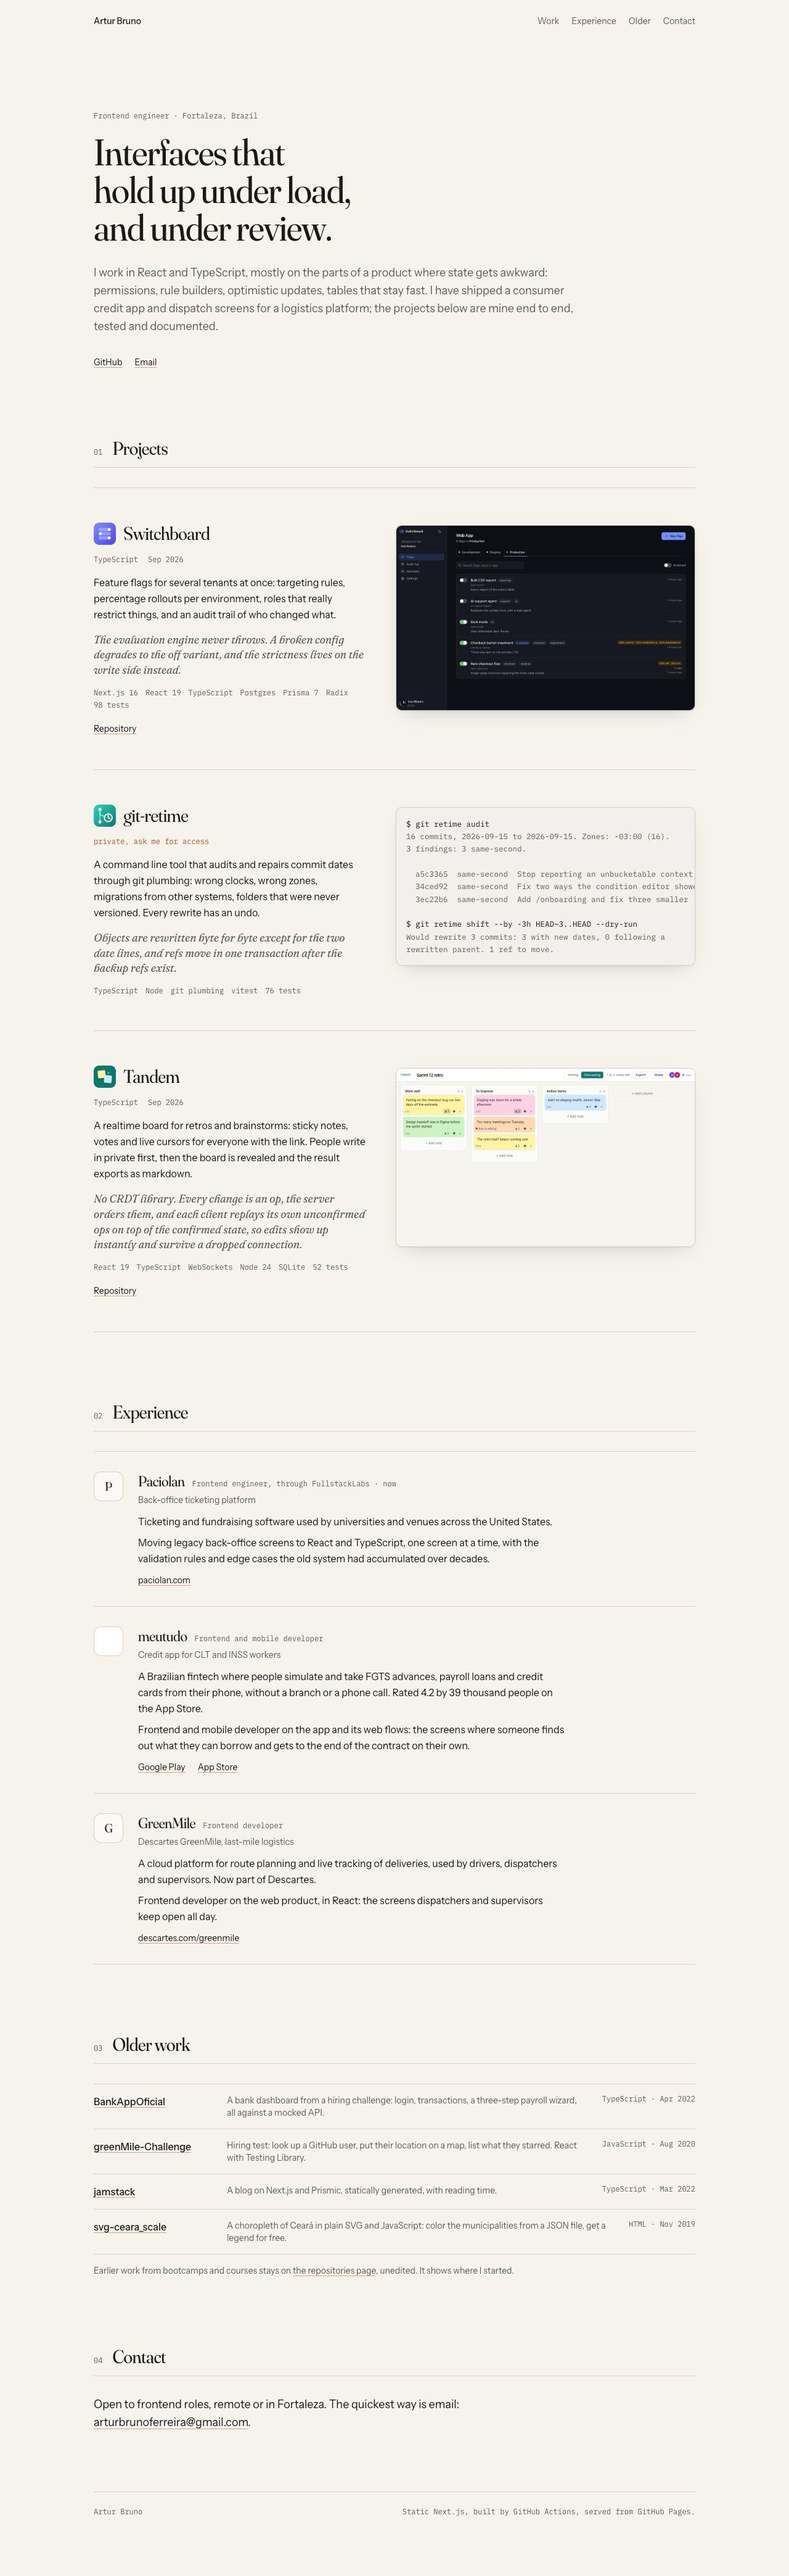
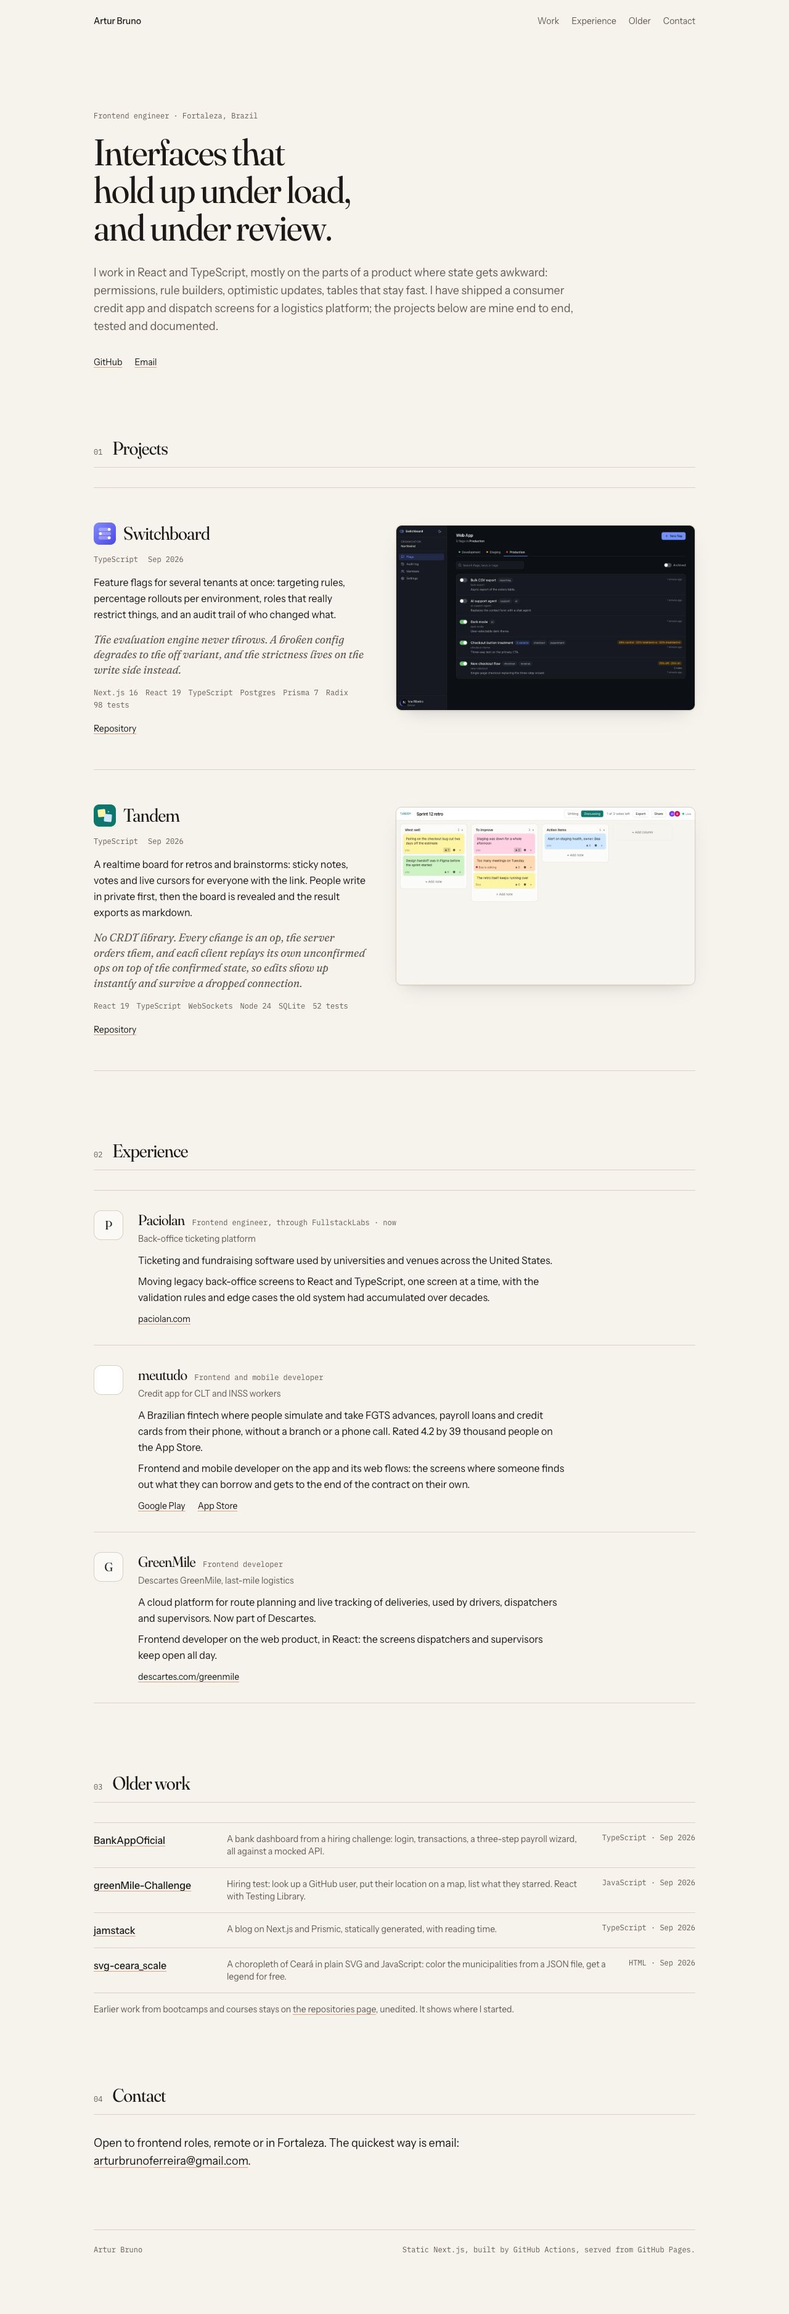
Update featured projects

diff --git a/src/data/projects.ts b/src/data/projects.ts
@@ -21,8 +21,6 @@ export interface Project {
   logo?: string
   /** A screenshot under public/, with its alt text. */
   image?: { src: string; alt: string; width: number; height: number }
-  /** For tools without a screen: lines of terminal output to render instead. */
-  terminal?: string[]
 }
 
 export const featured: Project[] = [
@@ -41,30 +39,6 @@ export const featured: Project[] = [
       width: 1400,
       height: 867,
     },
-  },
-  {
-    repo: 'git-retime',
-    name: 'git-retime',
-    description:
-      'A command line tool that audits and repairs commit dates through git plumbing: wrong clocks, wrong zones, migrations from other systems, folders that were never versioned. Every rewrite has an undo.',
-    interesting:
-      'Objects are rewritten byte for byte except for the two date lines, and refs move in one transaction after the backup refs exist.',
-    stack: ['TypeScript', 'Node', 'git plumbing', 'vitest', '76 tests'],
-    private: true,
-    logo: '/projects/git-retime-logo.svg',
-    terminal: [
-      '$ git retime audit',
-      '16 commits, 2026-09-15 to 2026-09-15. Zones: -03:00 (16).',
-      '3 findings: 3 same-second.',
-      '',
-      '  a5c3365  same-second  Stop reporting an unbucketable context',
-      '  34ced92  same-second  Fix two ways the condition editor showed',
-      '  3ec22b6  same-second  Add /onboarding and fix three smaller',
-      '',
-      '$ git retime shift --by -3h HEAD~3..HEAD --dry-run',
-      'Would rewrite 3 commits: 3 with new dates, 0 following a',
-      'rewritten parent. 1 ref to move.',
-    ],
   },
   {
     repo: 'tandem',

diff --git a/src/components/project-card.tsx b/src/components/project-card.tsx
@@ -105,20 +105,6 @@ export function ProjectCard({ project }: { project: ProjectView }) {
             />
           </figure>
         )}
-        {project.terminal && (
-          <figure className="frame terminal" aria-label={`Terminal session with ${project.name}`}>
-            <pre className="m-0 overflow-x-auto p-4 font-mono text-[12.5px] leading-relaxed">
-              {project.terminal.map((line, i) => (
-                <span
-                  key={i}
-                  className={line.startsWith('$') ? 'text-ink block' : 'text-muted block'}
-                >
-                  {line || ' '}
-                </span>
-              ))}
-            </pre>
-          </figure>
-        )}
       </div>
     </article>
   )

diff --git a/src/app/layout.tsx b/src/app/layout.tsx
@@ -28,7 +28,7 @@ export const metadata: Metadata = {
   metadataBase: new URL(profile.url),
   title: `${profile.name}, frontend engineer`,
   description:
-    'React and TypeScript work by Artur Bruno: feature flags with a real targeting engine, a git tool built on plumbing, a realtime board, and the products I have shipped.',
+    'React and TypeScript work by Artur Bruno: feature flags with a real targeting engine, a realtime collaborative board, and the products I have shipped.',
   openGraph: {
     title: `${profile.name}, frontend engineer`,
     description: 'React and TypeScript, built to hold up under load and under review.',

diff --git a/src/app/globals.css b/src/app/globals.css
@@ -110,9 +110,6 @@ body {
     0 1px 2px color-mix(in srgb, var(--ink) 6%, transparent),
     0 12px 32px -16px color-mix(in srgb, var(--ink) 25%, transparent);
 }
-.frame.terminal {
-  background: color-mix(in srgb, var(--ink) 4%, var(--surface));
-}
 
 .card-title-link::after {
   content: '';
